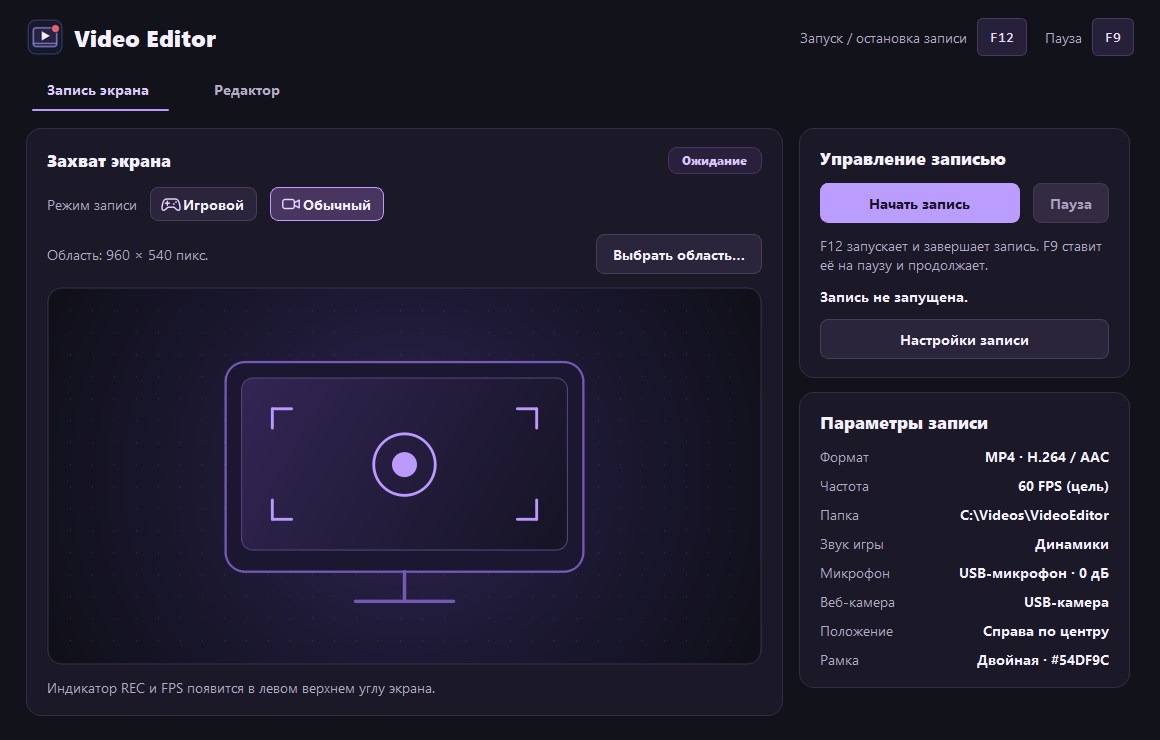
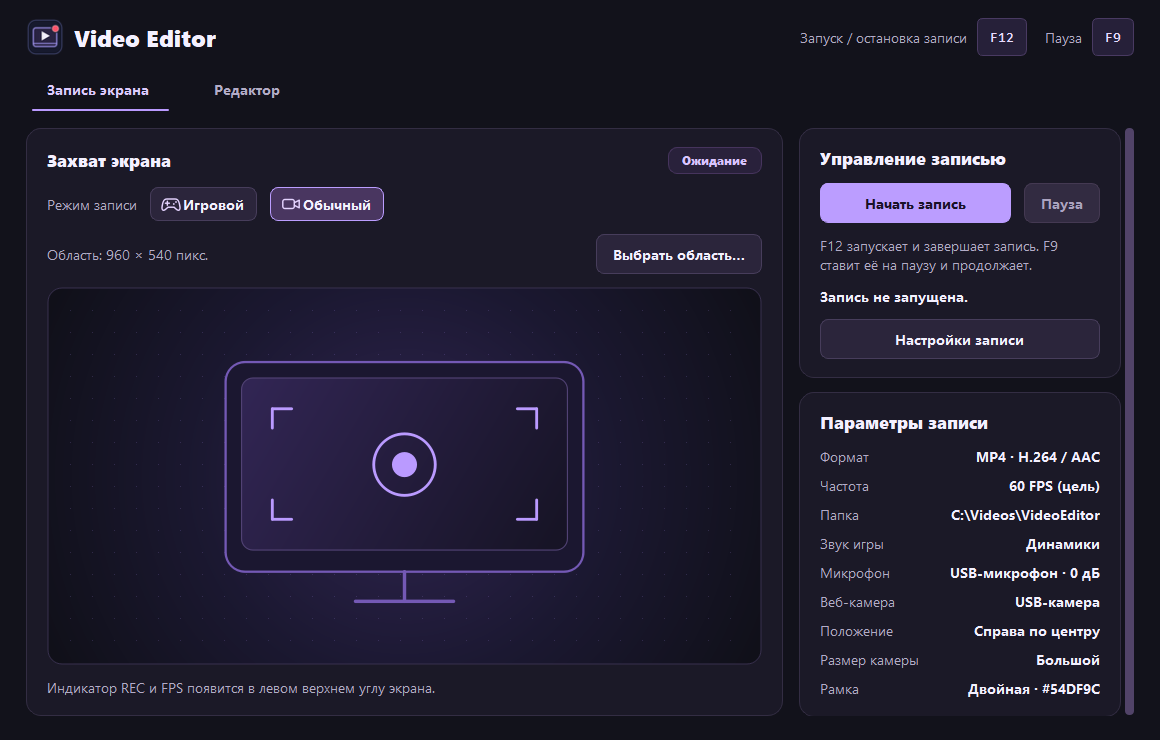
Add webcam size presets

diff --git a/recording_settings.py b/recording_settings.py
@@ -19,9 +19,9 @@ from recording_audio import (
 )
 from screen_region import CaptureRegion, RECORDING_MODES
 from webcam_capture import (
-    DEFAULT_WEBCAM_BORDER_COLOR, DEFAULT_WEBCAM_BORDER_STYLE, DEFAULT_WEBCAM_POSITION,
-    WEBCAM_BORDER_STYLES, WEBCAM_POSITIONS, webcam_border_color, webcam_border_layers,
-    webcam_border_style, webcam_devices, webcam_position,
+    DEFAULT_WEBCAM_BORDER_COLOR, DEFAULT_WEBCAM_BORDER_STYLE, DEFAULT_WEBCAM_POSITION, DEFAULT_WEBCAM_SIZE,
+    WEBCAM_BORDER_STYLES, WEBCAM_POSITIONS, WEBCAM_SIZES, webcam_border_color, webcam_border_layers,
+    webcam_border_style, webcam_devices, webcam_position, webcam_size,
 )
 from webcam_preview import WebcamPreviewDialog
 
@@ -53,6 +53,7 @@ class RecordingSettings:
     webcam_position: str = DEFAULT_WEBCAM_POSITION
     webcam_border_style: str = DEFAULT_WEBCAM_BORDER_STYLE
     webcam_border_color: str = DEFAULT_WEBCAM_BORDER_COLOR
+    webcam_size: str = DEFAULT_WEBCAM_SIZE
     recording_mode: str = "game"
     capture_region: Optional[CaptureRegion] = None
 
@@ -93,6 +94,7 @@ class RecordingPreferences:
             webcam_border_color=webcam_border_color(
                 store.value("recording/webcam_border_color", DEFAULT_WEBCAM_BORDER_COLOR, type=str)
             ),
+            webcam_size=webcam_size(store.value("recording/webcam_size", DEFAULT_WEBCAM_SIZE, type=str)),
             recording_mode=mode if mode in RECORDING_MODES else "game",
             capture_region=CaptureRegion.parse(store.value("recording/region", "", type=str)),
         )
@@ -111,6 +113,7 @@ class RecordingPreferences:
         store.setValue("recording/webcam_position", settings.webcam_position)
         store.setValue("recording/webcam_border_style", settings.webcam_border_style)
         store.setValue("recording/webcam_border_color", settings.webcam_border_color)
+        store.setValue("recording/webcam_size", settings.webcam_size)
         store.setValue("recording/mode", settings.recording_mode)
         store.setValue("recording/region", settings.capture_region.serialize() if settings.capture_region else "")
         store.sync()
@@ -319,8 +322,21 @@ class RecordingSettingsDialog(QDialog):
         layout.addWidget(self.webcam_position_label)
 
         border_controls = QWidget()
-        border_row = QHBoxLayout(border_controls)
-        border_row.setContentsMargins(0, 0, 0, 0)
+        appearance = QVBoxLayout(border_controls)
+        appearance.setContentsMargins(0, 0, 0, 0)
+        size_row = QHBoxLayout()
+        size_label = QLabel("Размер веб-камеры")
+        self.webcam_size = QComboBox()
+        self.webcam_size.setAccessibleName(size_label.text())
+        size_label.setBuddy(self.webcam_size)
+        for size, (name, _) in WEBCAM_SIZES.items():
+            self.webcam_size.addItem(name, size)
+        self.webcam_size.setCurrentIndex(self.webcam_size.findData(webcam_size(settings.webcam_size)))
+        size_row.addWidget(size_label)
+        size_row.addWidget(self.webcam_size, 1)
+        appearance.addLayout(size_row)
+
+        border_row = QHBoxLayout()
         border_label = QLabel("Стиль рамки")
         self.border_style = QComboBox()
         self.border_style.setAccessibleName(border_label.text())
@@ -337,6 +353,7 @@ class RecordingSettingsDialog(QDialog):
         border_row.addWidget(border_label)
         border_row.addWidget(self.border_style, 1)
         border_row.addWidget(self.border_color_button)
+        appearance.addLayout(border_row)
         layout.addWidget(border_controls)
         self.update_webcam_border()
         test_camera = QPushButton("Проверить веб-камеру")
@@ -358,7 +375,10 @@ class RecordingSettingsDialog(QDialog):
             self.webcam_status.setText("Выберите веб-камеру для проверки.")
             self.webcam_status.show()
             return
-        preview = WebcamPreviewDialog(device, self.border_style.currentData(), self.border_color, self)
+        preview = WebcamPreviewDialog(
+            device, self.border_style.currentData(), self.border_color, self,
+            size=self.webcam_size.currentData(),
+        )
         preview.exec_()
         preview.deleteLater()
 
@@ -508,6 +528,7 @@ class RecordingSettingsDialog(QDialog):
                 webcam_enabled=self.webcam_enabled.isChecked(),
                 webcam_device=webcam_device, webcam_name=webcam_name, webcam_position=position,
                 webcam_border_style=self.border_style.currentData(), webcam_border_color=self.border_color,
+                webcam_size=self.webcam_size.currentData(),
                 **options,
             )
             self.preferences.save(settings)

diff --git a/webcam_preview.py b/webcam_preview.py
@@ -4,31 +4,35 @@ from PyQt5.QtCore import QProcess, QTimer, Qt
 from PyQt5.QtGui import QImage, QPixmap
 from PyQt5.QtWidgets import QDialog, QLabel, QPushButton, QVBoxLayout
 
-from webcam_capture import webcam_frame_filter
+from webcam_capture import DEFAULT_WEBCAM_SIZE, webcam_frame_filter, webcam_frame_size
 
 
-WIDTH, HEIGHT = 336, 196
-FRAME_SIZE = WIDTH * HEIGHT * 3
+FRAME_PADDING = 16
 
 
-def preview_args(device, border_style, border_color):
-    frame = webcam_frame_filter(320, 180, border_style, border_color)
+def preview_args(device, border_style, border_color, size=DEFAULT_WEBCAM_SIZE):
+    width, height = webcam_frame_size(size)
+    frame = webcam_frame_filter(width, height, border_style, border_color)
     return [
         "-hide_banner", "-nostdin", "-loglevel", "error",
         "-f", "dshow", "-i", f"video={device}", "-an",
-        "-vf", f"{frame},pad={WIDTH}:{HEIGHT}:(ow-iw)/2:(oh-ih)/2:color=0x14121e",
+        "-vf", f"{frame},pad={width + FRAME_PADDING}:{height + FRAME_PADDING}:(ow-iw)/2:(oh-ih)/2:color=0x14121e",
         "-c:v", "rawvideo", "-pix_fmt", "rgb24", "-f", "rawvideo", "pipe:1",
     ]
 
 
 class WebcamPreviewDialog(QDialog):
-    def __init__(self, device, border_style, border_color, parent):
+    def __init__(self, device, border_style, border_color, parent, size=DEFAULT_WEBCAM_SIZE):
         super().__init__(parent)
+        width, height = webcam_frame_size(size)
+        self.preview_width = width + FRAME_PADDING
+        self.preview_height = height + FRAME_PADDING
+        self.frame_bytes = self.preview_width * self.preview_height * 3
         self.setWindowTitle("Проверка веб-камеры")
         layout = QVBoxLayout(self)
         layout.setContentsMargins(20, 18, 20, 18)
         self.preview = QLabel()
-        self.preview.setFixedSize(WIDTH, HEIGHT)
+        self.preview.setFixedSize(self.preview_width, self.preview_height)
         self.preview.setStyleSheet("background: #14121e;")
         self.preview.setAccessibleName("Предпросмотр выбранной веб-камеры")
         layout.addWidget(self.preview)
@@ -49,16 +53,18 @@ class WebcamPreviewDialog(QDialog):
         self.timeout = QTimer(self)
         self.timeout.setSingleShot(True)
         self.timeout.timeout.connect(self._timed_out)
-        self.process.start("ffmpeg", preview_args(device, border_style, border_color))
+        self.process.start("ffmpeg", preview_args(device, border_style, border_color, size))
         self.timeout.start(8000)
 
     def _read_frames(self):
         self.buffer.extend(bytes(self.process.readAllStandardOutput()))
-        complete = len(self.buffer) // FRAME_SIZE * FRAME_SIZE
+        complete = len(self.buffer) // self.frame_bytes * self.frame_bytes
         if complete:
-            data = bytes(self.buffer[complete - FRAME_SIZE:complete])
+            data = bytes(self.buffer[complete - self.frame_bytes:complete])
             del self.buffer[:complete]
-            image = QImage(data, WIDTH, HEIGHT, WIDTH * 3, QImage.Format_RGB888)
+            image = QImage(
+                data, self.preview_width, self.preview_height, self.preview_width * 3, QImage.Format_RGB888,
+            )
             self.preview.setPixmap(QPixmap.fromImage(image))
             self.status.setText("Веб-камера работает.")
             self.timeout.stop()

diff --git a/webcam_capture.py b/webcam_capture.py
@@ -18,6 +18,13 @@ WEBCAM_POSITIONS = {
 DEFAULT_WEBCAM_POSITION = "bottom_right"
 DEFAULT_WEBCAM_BORDER_STYLE = "thin"
 DEFAULT_WEBCAM_BORDER_COLOR = "#bb9dff"
+DEFAULT_WEBCAM_SIZE = "small"
+WEBCAM_SIZES = {
+    "small": ("Маленький", 4),
+    "medium": ("Средний", 5),
+    "large": ("Большой", 6),
+    "extra_large": ("Очень большой", 8),
+}
 WEBCAM_BORDER_STYLES = {
     "thin": ("Тонкая", ((4, None),)),
     "wide": ("Широкая", ((8, None),)),
@@ -32,6 +39,10 @@ def webcam_position(position):
 
 def webcam_border_style(style):
     return style if style in WEBCAM_BORDER_STYLES else DEFAULT_WEBCAM_BORDER_STYLE
+
+
+def webcam_size(size):
+    return size if size in WEBCAM_SIZES else DEFAULT_WEBCAM_SIZE
 
 
 def webcam_border_color(color):
@@ -57,6 +68,25 @@ def webcam_frame_filter(width, height, border_style, border_color):
     )
 
 
+def webcam_margin(region):
+    return 18 if region is None else min(18, min(region.width, region.height) // 8)
+
+
+def webcam_frame_size(size, region=None, border_style=DEFAULT_WEBCAM_BORDER_STYLE):
+    _, scale = WEBCAM_SIZES[webcam_size(size)]
+    width, height = 320, 180
+    if region is not None:
+        width = min(width, region.width // 6 * 2)
+        height = min(height, region.height // 6 * 2)
+    width, height = width * scale // 8 * 2, height * scale // 8 * 2
+    if region is not None:
+        _, layers = WEBCAM_BORDER_STYLES[webcam_border_style(border_style)]
+        inset = 2 * (webcam_margin(region) + sum(edge for edge, _ in layers))
+        width = min(width, (region.width - inset) // 2 * 2)
+        height = min(height, (region.height - inset) // 2 * 2)
+    return max(2, width), max(2, height)
+
+
 def webcam_devices():
     result = run_media(
         ["ffmpeg", "-hide_banner", "-list_devices", "true", "-f", "dshow", "-i", "dummy"],
@@ -77,14 +107,11 @@ def webcam_devices():
 
 def webcam_overlay(
     graph, position, border_style=DEFAULT_WEBCAM_BORDER_STYLE,
-    border_color=DEFAULT_WEBCAM_BORDER_COLOR, input_index=0, region=None,
+    border_color=DEFAULT_WEBCAM_BORDER_COLOR, input_index=0, region=None, size=DEFAULT_WEBCAM_SIZE,
 ):
     _, x, y = webcam_position(position)
-    width, height, margin = 320, 180, 18
-    if region is not None:
-        width = min(width, max(2, region.width // 6 * 2))
-        height = min(height, max(2, region.height // 6 * 2))
-        margin = min(margin, min(region.width, region.height) // 8)
+    width, height = webcam_frame_size(size, region, border_style)
+    margin = webcam_margin(region)
     x = x.format(margin=margin)
     y = y.format(margin=margin)
     frame = webcam_frame_filter(width, height, border_style, border_color)

diff --git a/main.py b/main.py
@@ -24,7 +24,7 @@ from recording_audio import SOURCES
 from recording_settings import RecordingPreferences, RecordingSettingsDialog, format_gain
 from screen_recorder import TARGET_FPS, VK_F9, VK_F12, RecordingHotkey, ScreenRecorder
 from screen_region import RECORDING_MODES, RegionOutline, ScreenRegionSelector, default_capture_region, region_is_available
-from webcam_capture import WEBCAM_BORDER_STYLES, webcam_border_style, webcam_position
+from webcam_capture import WEBCAM_BORDER_STYLES, WEBCAM_SIZES, webcam_border_style, webcam_position, webcam_size
 
 
 APP_ICON = Path(__file__).with_name("video-editor.ico")
@@ -315,7 +315,7 @@ class VideoEditor(QMainWindow):
         fields = [
             ("format", "Формат"), ("fps", "Частота"), ("directory", "Папка"),
             *SOURCES.items(), ("webcam", "Веб-камера"), ("webcam_position", "Положение"),
-            ("webcam_border", "Рамка"),
+            ("webcam_size", "Размер камеры"), ("webcam_border", "Рамка"),
         ]
         for row, (field, caption) in enumerate(fields):
             details.addWidget(label(caption, "muted"), row, 0)
@@ -371,14 +371,17 @@ class VideoEditor(QMainWindow):
         if not settings.webcam_enabled:
             summary["webcam"].set_full_text("Выключена")
             summary["webcam_position"].set_full_text("—")
+            summary["webcam_size"].set_full_text("—")
             summary["webcam_border"].set_full_text("—")
         elif self.recorder.webcam_warning:
             summary["webcam"].set_full_text("Недоступна", self.recorder.webcam_warning)
             summary["webcam_position"].set_full_text("—")
+            summary["webcam_size"].set_full_text("—")
             summary["webcam_border"].set_full_text("—")
         else:
             summary["webcam"].set_full_text(settings.webcam_name or "Камера")
             summary["webcam_position"].set_full_text(webcam_position(settings.webcam_position)[0])
+            summary["webcam_size"].set_full_text(WEBCAM_SIZES[webcam_size(settings.webcam_size)][0])
             name, layers = WEBCAM_BORDER_STYLES[webcam_border_style(settings.webcam_border_style)]
             if layers:
                 name = f"{name} · {settings.webcam_border_color.upper()}"

diff --git a/screen_recorder.py b/screen_recorder.py
@@ -21,7 +21,8 @@ from recording_segments import JoinSegments
 from recording_settings import RecordingSettings, default_recording_directory
 from screen_region import exclude_from_capture
 from webcam_capture import (
-    DEFAULT_WEBCAM_BORDER_COLOR, DEFAULT_WEBCAM_BORDER_STYLE, DEFAULT_WEBCAM_POSITION, webcam_overlay,
+    DEFAULT_WEBCAM_BORDER_COLOR, DEFAULT_WEBCAM_BORDER_STYLE, DEFAULT_WEBCAM_POSITION,
+    DEFAULT_WEBCAM_SIZE, webcam_overlay,
 )
 
 
@@ -106,7 +107,7 @@ class RecordingHotkey:
 def recording_args(
     path, audio=False, camera="", position=DEFAULT_WEBCAM_POSITION,
     border_style=DEFAULT_WEBCAM_BORDER_STYLE, border_color=DEFAULT_WEBCAM_BORDER_COLOR,
-    region=None,
+    region=None, camera_size=DEFAULT_WEBCAM_SIZE,
 ):
     source = "[0:v]setpts=PTS-STARTPTS" if region is not None else (
         f"ddagrab=output_idx=0:framerate={TARGET_FPS}:draw_mouse=0,hwdownload"
@@ -115,7 +116,7 @@ def recording_args(
     if camera:
         capture = webcam_overlay(
             capture, position, border_style, border_color,
-            input_index=int(region is not None), region=region,
+            input_index=int(region is not None), region=region, size=camera_size,
         )
     graph = f"{capture}[screen]"
     if audio:
@@ -336,6 +337,7 @@ class ScreenRecorder(QObject):
             options["position"] = self.settings.webcam_position
             options["border_style"] = self.settings.webcam_border_style
             options["border_color"] = self.settings.webcam_border_color
+            options["camera_size"] = self.settings.webcam_size
             self.webcam_timeout.start(12000)
         self.process.start("ffmpeg", recording_args(self.partial_path, **options))
 

diff --git a/README.md b/README.md
@@ -8,7 +8,7 @@
 
 - **Запись экрана в Windows** по F12 с паузой и продолжением по F9. Игровой режим снимает экран целиком, обычный — выбранный участок рабочего стола. Целевая частота записи — 60 кадров/с.
 - **Звук игры и микрофона.** Для каждого источника можно выбрать устройство или отключить его. В настройках есть проверка микрофона с индикатором уровня и регулировка усиления.
-- **Веб-камера в записи.** Вставку можно разместить в одном из восьми положений: в углах или по центру любой стороны кадра. Цвет и стиль рамки настраиваются.
+- **Веб-камера в записи.** Вставку можно разместить в одном из восьми положений и выбрать один из четырёх размеров. Цвет и стиль рамки настраиваются.
 - **MP4 для YouTube.** Видео кодируется в H.264, звук сохраняется в AAC. Папка сохранения настраивается.
 - **Редактор видео.** Есть предпросмотр, временная шкала и свойства файла. Обрезка через FFmpeg использует копирование потоков, чтобы сохранить исходное качество.
 
@@ -46,7 +46,7 @@ python -m venv .venv
 
 Захватывается первый экран DXGI. Звук игры берётся с выбранных динамиков или наушников вместе с другими звуками, которые воспроизводятся на этом устройстве. Если выбраны оба аудиоисточника, они сводятся в одну стереодорожку.
 
-Рамка веб-камеры повторяет пропорции изображения, поэтому в ней помещается весь кадр без чёрных полос. Во вкладке **Настройки записи → Веб-камера** можно выбрать цвет и стиль рамки. Кнопка **Проверить веб-камеру** показывает живое изображение с выбранной рамкой без сохранения видео. При недоступной веб-камере приложение продолжит запись экрана и покажет предупреждение. Если захват экрана прервётся, приложение проверит полученный фрагмент и добавит записанный звук, когда видео пригодно к сохранению.
+Рамка веб-камеры повторяет пропорции изображения, поэтому в ней помещается весь кадр без чёрных полос. Во вкладке **Настройки записи → Веб-камера** можно выбрать размер вставки, цвет и стиль рамки. Маленький размер соответствует исходному. В обычном режиме вставка подстраивается под размеры выделенной области. Кнопка **Проверить веб-камеру** показывает живое изображение с выбранным размером и рамкой без сохранения видео. При недоступной веб-камере приложение продолжит запись экрана и покажет предупреждение. Если захват экрана прервётся, приложение проверит полученный фрагмент и добавит записанный звук, когда видео пригодно к сохранению.
 
 | Запись и звук | Веб-камера и положение в кадре |
 | --- | --- |
